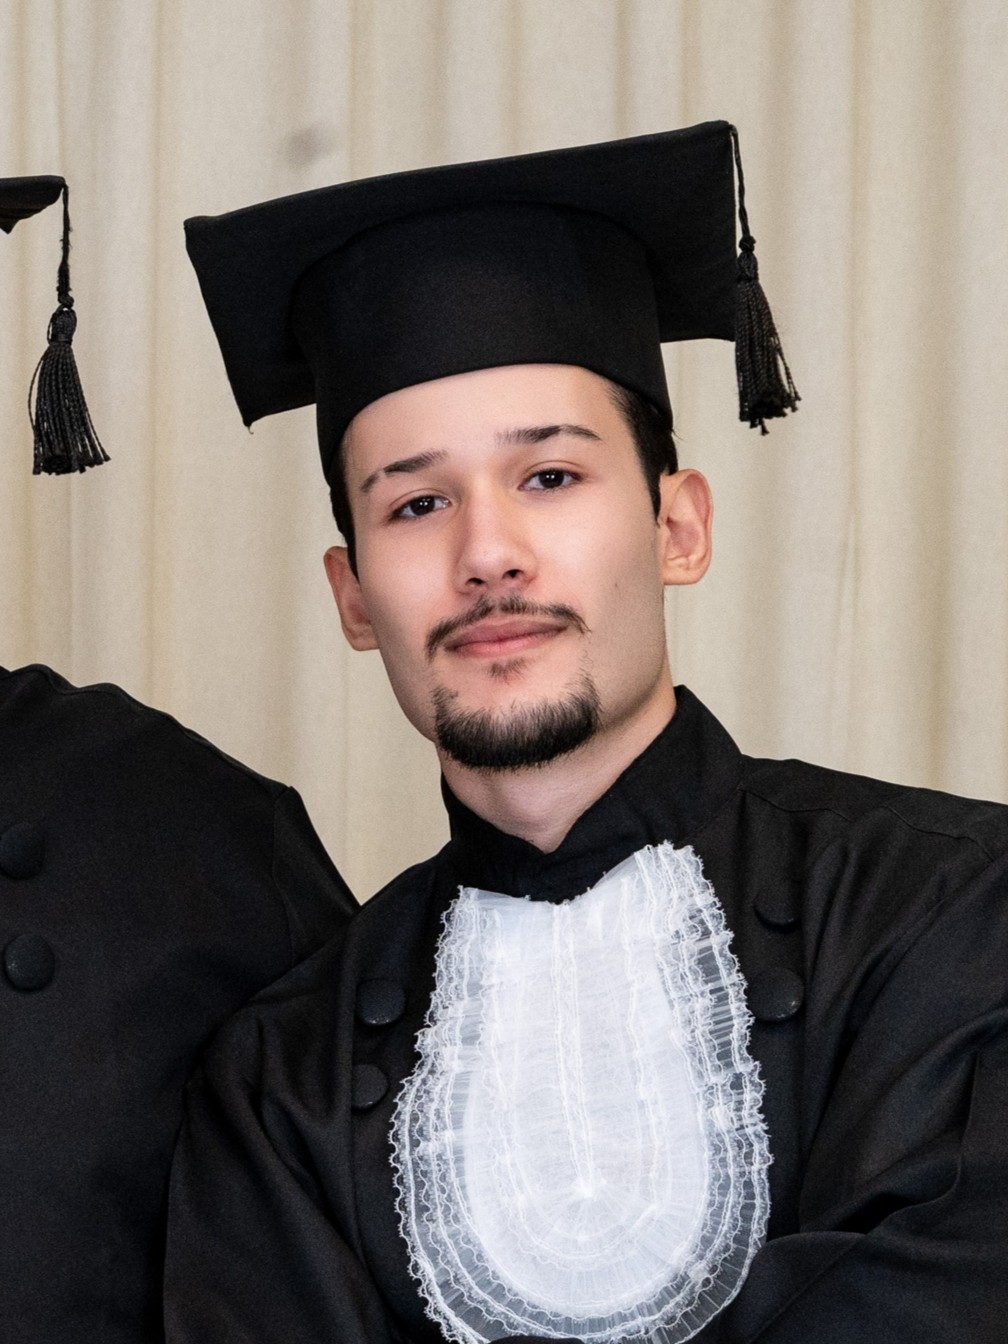
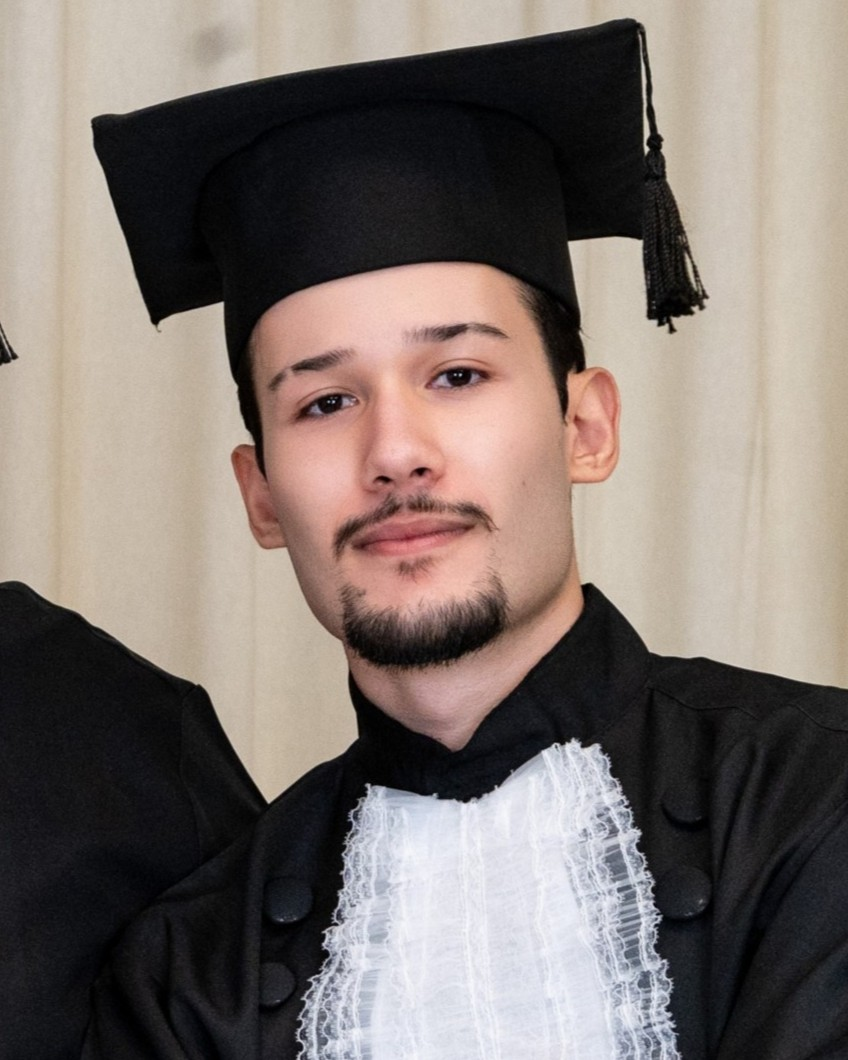
feat(Page.vue): enhance project section with example projects and responsive navbar

diff --git a/src/components/Page.vue b/src/components/Page.vue
@@ -1,20 +1,174 @@
 <script setup lang="ts">
 import { ToggleSwitch } from 'primevue'
-import { ref } from 'vue'
+import { ref, computed } from 'vue'
 import { useDarkMode } from '../composables/useDarkMode'
 
 const { isDark, toggleDarkMode } = useDarkMode()
 const checked = ref(isDark.value)
+const isMenuOpen = ref(false)
 
 const handleToggle = () => {
   toggleDarkMode()
   checked.value = isDark.value
 }
 
+const navLinks = [
+  { label: 'Skills' },
+  { label: 'Sobre Mim' },
+  { label: 'Projetos' },
+  { label: 'Certificados' },
+  { label: 'Fale Comigo' },
+]
+
 const title = 'Welcome to My Portfolio'
+
+const projects = [
+  {
+    title: 'E-Commerce App',
+    description:
+      'Plataforma de e-commerce full stack com autenticação, carrinho e pagamento integrado.',
+    tech: ['Vue.js', 'Node.js', 'PostgreSQL'],
+    image: '/procedures-project-line-icon-with-checklist-vector.jpg',
+    link: '#',
+  },
+  {
+    title: 'Task Manager',
+    description: 'Gerenciador de tarefas com drag-and-drop, filtros e colaboração em tempo real.',
+    tech: ['React', 'TypeScript', 'Firebase'],
+    image: '/procedures-project-line-icon-with-checklist-vector.jpg',
+    link: '#',
+  },
+  {
+    title: 'API REST',
+    description: 'API RESTful com autenticação JWT, documentação Swagger e testes automatizados.',
+    tech: ['Spring Boot', 'Java', 'MySQL'],
+    image: '/procedures-project-line-icon-with-checklist-vector.jpg',
+    link: '#',
+  },
+  {
+    title: 'Dashboard Analytics',
+    description:
+      'Painel de métricas e visualização de dados com gráficos interativos e exportação.',
+    tech: ['Vue.js', 'Chart.js', 'Tailwind'],
+    image: '/procedures-project-line-icon-with-checklist-vector.jpg',
+    link: '#',
+  },
+  {
+    title: 'Chat em Tempo Real',
+    description:
+      'Aplicação de chat com WebSockets, salas privadas, notificações e histórico de mensagens.',
+    tech: ['Vue.js', 'Socket.io', 'Node.js'],
+    image: '/procedures-project-line-icon-with-checklist-vector.jpg',
+    link: '#',
+  },
+  {
+    title: 'Sistema de Agendamento',
+    description:
+      'Plataforma de agendamentos online com calendário interativo, notificações e painel admin.',
+    tech: ['Angular', 'Spring Boot', 'PostgreSQL'],
+    image: '/procedures-project-line-icon-with-checklist-vector.jpg',
+    link: '#',
+  },
+]
+
+const itemsPerPage = 6
+const currentPage = ref(0)
+
+const totalPages = computed(() => Math.ceil(projects.length / itemsPerPage))
+
+const paginatedProjects = computed(() =>
+  projects.slice(currentPage.value * itemsPerPage, (currentPage.value + 1) * itemsPerPage)
+)
+
+const prevPage = () => {
+  if (currentPage.value > 0) currentPage.value--
+}
+
+const nextPage = () => {
+  if (currentPage.value < totalPages.value - 1) currentPage.value++
+}
+
+type Project = (typeof projects)[number]
+const selectedProject = ref<Project | null>(null)
+
+const openModal = (project: Project) => {
+  selectedProject.value = project
+}
+
+const closeModal = () => {
+  selectedProject.value = null
+}
 </script>
 <template>
   <main class="w-full bg-[#0D0D0D]">
+    <!-- Navbar flutuante -->
+    <div class="fixed top-3 right-0 left-0 z-50 flex justify-center px-4">
+      <nav
+        class="w-full max-w-5xl rounded-2xl bg-white/5 px-8 py-0 shadow-[0_8px_32px_rgba(0,0,0,0.5)] backdrop-blur-xl"
+      >
+        <div class="flex h-14 items-center justify-between">
+          <!-- Logo -->
+          <span class="text-xl font-black tracking-[0.4em] text-white uppercase select-none">
+            Lucas
+          </span>
+
+          <!-- Desktop links (centered) -->
+          <ul class="absolute left-1/2 hidden -translate-x-1/2 items-center gap-8 md:flex">
+            <li v-for="link in navLinks" :key="link.label">
+              <a
+                href="#"
+                class="inline-block text-sm font-medium text-slate-300 transition-all duration-200 hover:scale-110 hover:text-white"
+                @click.prevent
+              >
+                {{ link.label }}
+              </a>
+            </li>
+          </ul>
+
+          <!-- Hamburger button (mobile only) -->
+          <button
+            class="flex h-8 w-8 flex-col items-center justify-center gap-[5px] focus:outline-none md:hidden"
+            :aria-expanded="isMenuOpen"
+            aria-label="Abrir menu"
+            @click="isMenuOpen = !isMenuOpen"
+          >
+            <span
+              class="block h-0.5 w-6 origin-center bg-white transition-all duration-300"
+              :class="isMenuOpen ? 'translate-y-[7px] rotate-45' : ''"
+            />
+            <span
+              class="block h-0.5 w-6 bg-white transition-all duration-300"
+              :class="isMenuOpen ? 'opacity-0' : ''"
+            />
+            <span
+              class="block h-0.5 w-6 origin-center bg-white transition-all duration-300"
+              :class="isMenuOpen ? '-translate-y-[7px] -rotate-45' : ''"
+            />
+          </button>
+        </div>
+
+        <!-- Mobile dropdown -->
+        <div
+          class="overflow-hidden transition-all duration-300 md:hidden"
+          :class="isMenuOpen ? 'max-h-80' : 'max-h-0'"
+        >
+          <ul class="flex flex-col gap-1 border-t border-white/10 pt-2 pb-4">
+            <li v-for="link in navLinks" :key="link.label">
+              <a
+                href="#"
+                class="block inline-block w-full origin-left py-2 text-sm font-medium text-slate-300 transition-all duration-200 hover:scale-105 hover:text-white"
+                @click.prevent="isMenuOpen = false"
+              >
+                {{ link.label }}
+              </a>
+            </li>
+          </ul>
+        </div>
+      </nav>
+    </div>
+
+    <div class="h-20" />
+
     <section class="flex min-h-screen items-center px-6 py-10">
       <div class="mx-auto flex w-full max-w-5xl flex-col items-center gap-8 text-center">
         <h1
@@ -75,26 +229,180 @@ const title = 'Welcome to My Portfolio'
       </div>
     </section>
 
-    <section class="flex min-h-screen items-center px-6 py-10">
-      <div
-        class="mx-auto w-full max-w-5xl rounded-2xl border border-slate-200/70 bg-white/70 p-8 shadow-xl backdrop-blur-sm dark:border-slate-700 dark:bg-slate-900/70"
-      >
-        <h2 class="text-3xl font-bold text-slate-800 dark:text-slate-100">Projects & Skills</h2>
-        <p class="mt-4 text-base leading-relaxed text-slate-600 dark:text-slate-300">
-          Ut tempor minim aliquip laborum excepteur laborum laboris in ut elit esse ex. Consequat
-          cillum quis ex occaecat non ea ea irure in adipisicing ipsum Lorem sint. Occaecat
-          incididunt aliquip ipsum velit et excepteur qui adipisicing reprehenderit qui do ipsum
-          laboris ad. Aliquip culpa pariatur sint et Lorem dolor ex eiusmod irure in ea est id.
-        </p>
-        <p class="mt-4 text-base leading-relaxed text-slate-600 dark:text-slate-300">
-          Est est qui in dolor pariatur dolor dolore nulla aute. Anim velit ipsum consectetur
-          proident nulla nisi exercitation reprehenderit ex aliquip. Dolore duis ut eiusmod do dolor
-          et aliqua et excepteur aute. Labore non culpa adipisicing in esse tempor minim culpa
-          cupidatat aliqua ex est eu. Pariatur nulla excepteur elit dolore occaecat voluptate mollit
-          tempor cupidatat veniam ut.
-        </p>
+    <section id="projects" class="px-6 py-20 md:py-32">
+      <div class="mx-auto w-full max-w-7xl">
+        <!-- Title -->
+        <h2
+          class="mb-12 text-center text-3xl font-bold text-blue-500 sm:text-4xl md:text-5xl dark:text-blue-400"
+        >
+          Projetos
+        </h2>
+
+        <!-- Mobile: Carrossel horizontal (< sm) -->
+        <div
+          class="carousel -mx-6 flex snap-x snap-mandatory gap-4 overflow-x-auto px-6 pb-4 sm:hidden"
+        >
+          <div
+            v-for="project in projects"
+            :key="project.title"
+            class="flex w-[82%] shrink-0 cursor-pointer snap-start flex-col overflow-hidden rounded-2xl border border-white/10 bg-white/5 shadow-lg backdrop-blur-sm"
+            @click="openModal(project)"
+          >
+            <!-- Imagem -->
+            <div class="h-48 overflow-hidden bg-white/5">
+              <img :src="project.image" :alt="project.title" class="h-full w-full object-cover" />
+            </div>
+
+            <!-- Conteúdo -->
+            <div class="flex flex-1 flex-col gap-3 p-5">
+              <h3 class="text-lg font-semibold text-white">{{ project.title }}</h3>
+              <p class="flex-1 text-sm leading-relaxed text-slate-400">{{ project.description }}</p>
+
+              <div class="flex flex-wrap gap-2">
+                <span
+                  v-for="tech in project.tech"
+                  :key="tech"
+                  class="rounded-full border border-blue-500/20 bg-blue-500/10 px-3 py-0.5 text-xs font-medium text-blue-400"
+                >
+                  {{ tech }}
+                </span>
+              </div>
+
+              <span class="mt-1 inline-flex items-center gap-1 text-sm font-medium text-blue-400">
+                Ver detalhes
+                <svg
+                  xmlns="http://www.w3.org/2000/svg"
+                  class="h-4 w-4"
+                  fill="none"
+                  viewBox="0 0 24 24"
+                  stroke="currentColor"
+                  stroke-width="2"
+                >
+                  <path
+                    stroke-linecap="round"
+                    stroke-linejoin="round"
+                    d="M17 8l4 4m0 0l-4 4m4-4H3"
+                  />
+                </svg>
+              </span>
+            </div>
+          </div>
+        </div>
+
+        <!-- Desktop: Grid (>= sm) -->
+        <div class="hidden sm:grid sm:grid-cols-2 sm:gap-6 lg:grid-cols-3">
+          <div
+            v-for="project in paginatedProjects"
+            :key="project.title"
+            class="flex cursor-pointer flex-col overflow-hidden rounded-2xl border border-white/10 bg-white/5 shadow-lg backdrop-blur-sm transition-all duration-300 hover:-translate-y-1 hover:border-blue-500/40 hover:shadow-blue-500/10"
+            @click="openModal(project)"
+          >
+            <!-- Imagem -->
+            <div class="h-48 overflow-hidden bg-white/5">
+              <img
+                :src="project.image"
+                :alt="project.title"
+                class="h-full w-full object-cover transition-transform duration-500 hover:scale-105"
+              />
+            </div>
+
+            <!-- Conteúdo -->
+            <div class="flex flex-1 flex-col gap-3 p-5">
+              <h3 class="text-lg font-semibold text-white">{{ project.title }}</h3>
+              <p class="flex-1 text-sm leading-relaxed text-slate-400">{{ project.description }}</p>
+
+              <div class="flex flex-wrap gap-2">
+                <span
+                  v-for="tech in project.tech"
+                  :key="tech"
+                  class="rounded-full border border-blue-500/20 bg-blue-500/10 px-3 py-0.5 text-xs font-medium text-blue-400"
+                >
+                  {{ tech }}
+                </span>
+              </div>
+
+              <span class="mt-1 inline-flex items-center gap-1 text-sm font-medium text-blue-400">
+                Ver detalhes
+                <svg
+                  xmlns="http://www.w3.org/2000/svg"
+                  class="h-4 w-4"
+                  fill="none"
+                  viewBox="0 0 24 24"
+                  stroke="currentColor"
+                  stroke-width="2"
+                >
+                  <path
+                    stroke-linecap="round"
+                    stroke-linejoin="round"
+                    d="M17 8l4 4m0 0l-4 4m4-4H3"
+                  />
+                </svg>
+              </span>
+            </div>
+          </div>
+        </div>
+
+        <!-- Paginação (desktop only) -->
+        <div v-if="totalPages > 1" class="mt-10 hidden items-center justify-center gap-4 sm:flex">
+          <button
+            :disabled="currentPage === 0"
+            class="flex h-9 w-9 items-center justify-center rounded-full border border-white/10 bg-white/5 text-slate-400 transition-all hover:border-blue-500/40 hover:text-white disabled:cursor-not-allowed disabled:opacity-30"
+            aria-label="Página anterior"
+            @click="prevPage"
+          >
+            <svg
+              xmlns="http://www.w3.org/2000/svg"
+              class="h-4 w-4"
+              fill="none"
+              viewBox="0 0 24 24"
+              stroke="currentColor"
+              stroke-width="2"
+            >
+              <path stroke-linecap="round" stroke-linejoin="round" d="M15 19l-7-7 7-7" />
+            </svg>
+          </button>
+
+          <div class="flex gap-2">
+            <button
+              v-for="page in totalPages"
+              :key="page"
+              class="h-2.5 w-2.5 rounded-full transition-all duration-300"
+              :class="
+                currentPage === page - 1 ? 'w-6 bg-blue-500' : 'bg-white/20 hover:bg-white/40'
+              "
+              :aria-label="`Ir para página ${page}`"
+              @click="currentPage = page - 1"
+            />
+          </div>
+
+          <button
+            :disabled="currentPage === totalPages - 1"
+            class="flex h-9 w-9 items-center justify-center rounded-full border border-white/10 bg-white/5 text-slate-400 transition-all hover:border-blue-500/40 hover:text-white disabled:cursor-not-allowed disabled:opacity-30"
+            aria-label="Próxima página"
+            @click="nextPage"
+          >
+            <svg
+              xmlns="http://www.w3.org/2000/svg"
+              class="h-4 w-4"
+              fill="none"
+              viewBox="0 0 24 24"
+              stroke="currentColor"
+              stroke-width="2"
+            >
+              <path stroke-linecap="round" stroke-linejoin="round" d="M9 5l7 7-7 7" />
+            </svg>
+          </button>
+        </div>
       </div>
     </section>
   </main>
 </template>
-<style scoped></style>
+<style scoped>
+.carousel {
+  -ms-overflow-style: none;
+  scrollbar-width: none;
+}
+.carousel::-webkit-scrollbar {
+  display: none;
+}
+</style>
